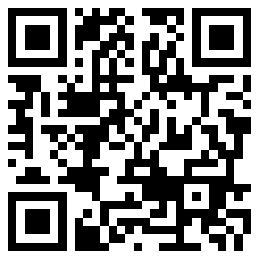
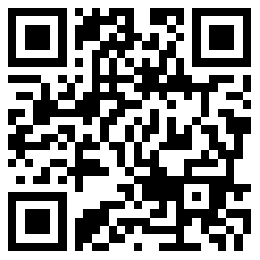
update ios download image

diff --git a/cn/index.html b/cn/index.html
@@ -354,7 +354,7 @@
                             </a>
                         </div>
                         <div class="sm-ios">
-                            <a href="https://testflight.apple.com/join/4LhaFylA" target="_blank">
+                            <a href="https://testflight.apple.com/join/GD9IG7b8" target="_blank">
                                 <div class="sm-img"><img src="../image/ios.png" alt=""></div>
                             </a>
                             <div class="sm-iii"><span>iOS</span></div>
@@ -391,7 +391,7 @@
                             </a>
                         </div>
                         <div class="sm-ios-p">
-                            <a href="https://testflight.apple.com/join/4LhaFylA" target="_blank"  class="sm-btn">
+                            <a href="https://testflight.apple.com/join/GD9IG7b8" target="_blank"  class="sm-btn">
                                 <div class="sm-img  sm-img-p"><img src="../image/ios.png" alt=""></div>
                                 <div class="sm-iii  sm-iii-p"><span>iOS</span></div>
                             </a>

diff --git a/index.html b/index.html
@@ -381,7 +381,7 @@
                             </a>
                         </div>
                         <div class="sm-ios">
-                            <a href="https://testflight.apple.com/join/4LhaFylA" target="_blank">
+                            <a href="https://testflight.apple.com/join/GD9IG7b8" target="_blank">
                                 <div class="sm-img"><img src="./image/ios.png" alt=""></div>
                             </a>
                             <div class="sm-iii"><span>iOS</span></div>
@@ -420,7 +420,7 @@
                             </a>
                         </div>
                         <div class="sm-ios-p">
-                            <a href="https://testflight.apple.com/join/4LhaFylA" target="_blank"  class="sm-btn">
+                            <a href="https://testflight.apple.com/join/GD9IG7b8" target="_blank"  class="sm-btn">
                                 <div class="sm-img  sm-img-p"><img src="./image/ios.png" alt=""></div>
                                 <div class="sm-iii  sm-iii-p"><span>iOS</span></div>
                             </a>
